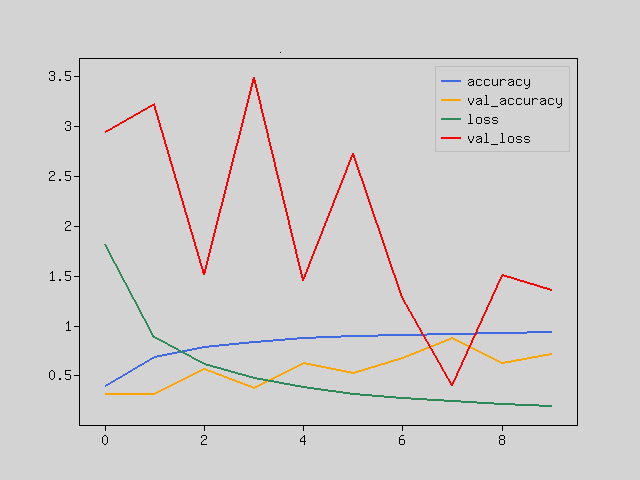
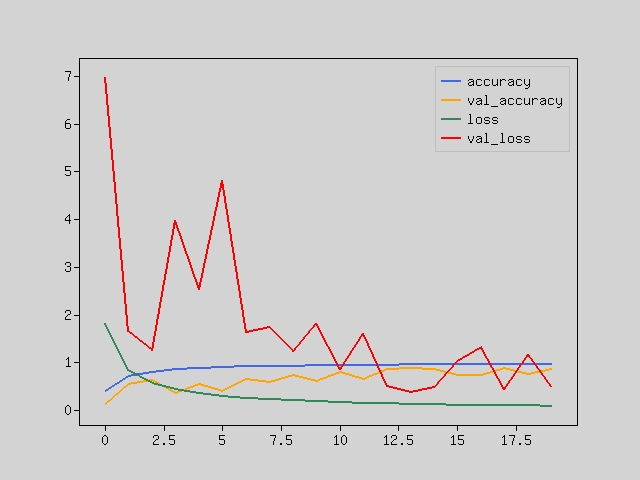
update readme, change epochs number to 20 for sel-drive model training

diff --git a/script/self-driving-car-image-classification-with-cnn-pipeline.php b/script/self-driving-car-image-classification-with-cnn-pipeline.php
@@ -34,7 +34,7 @@ $modelExport = new ModelExport();
 
 $payload = new Payload(
     $configModelVersion = '1.0',
-    $configEpochs = 10,
+    $configEpochs = 20,
     $configBatchSize = 64,
     $configImgWidth = 102,
     $configImgHeight = 40,

diff --git a/README.md b/README.md
@@ -70,11 +70,11 @@ Captcha can contain any of 28 characters below. Letters are skewed, transformed 
 9. Evaluate model
 
 ### Results
-Model achieves over 80% accuracy.
+Model trained with 42000 images and 20 epochs achieves 87% accuracy.
 
 <img src="./gallery/captcha_model_evaluation.png" width="430"/>
 
-Prediction is correct for all 28 classes. Some of characters are likely to be taken as other similar characters.
+Prediction has good accuracy for all 28 classes.
 <img src="./gallery/captcha_prediction_histogram.png" width="430"/>
  
 ### Setup
